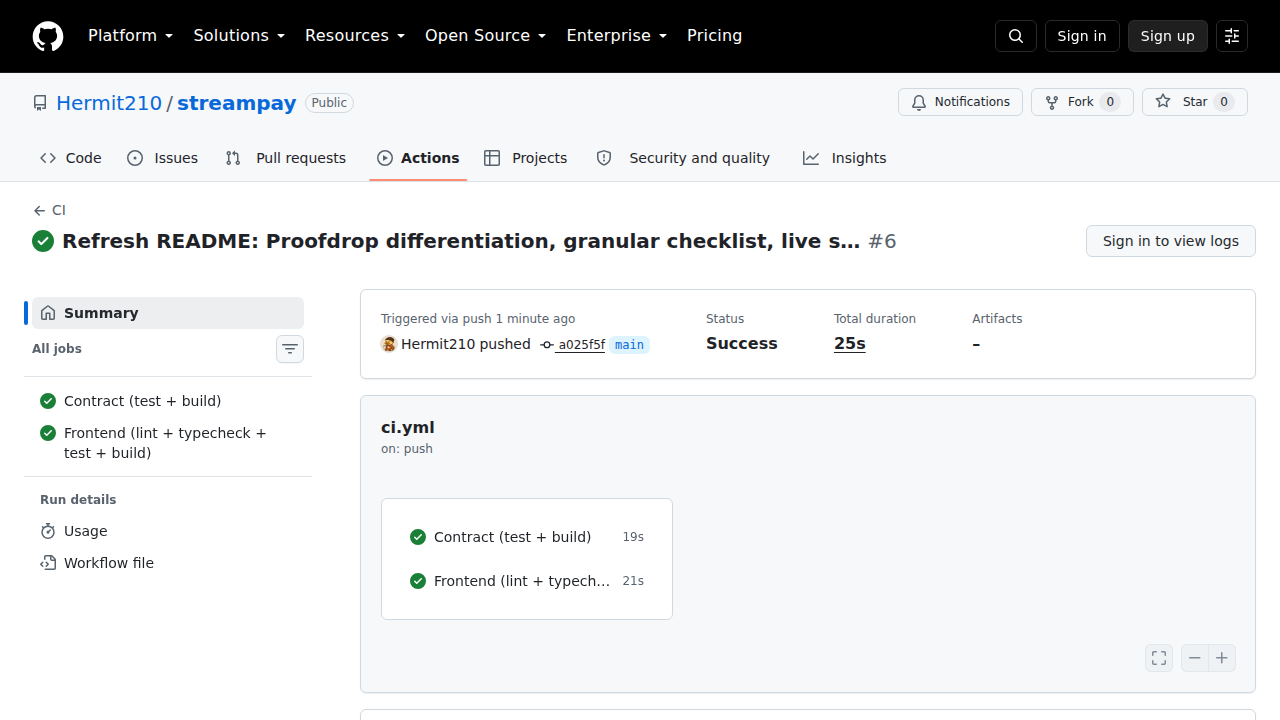
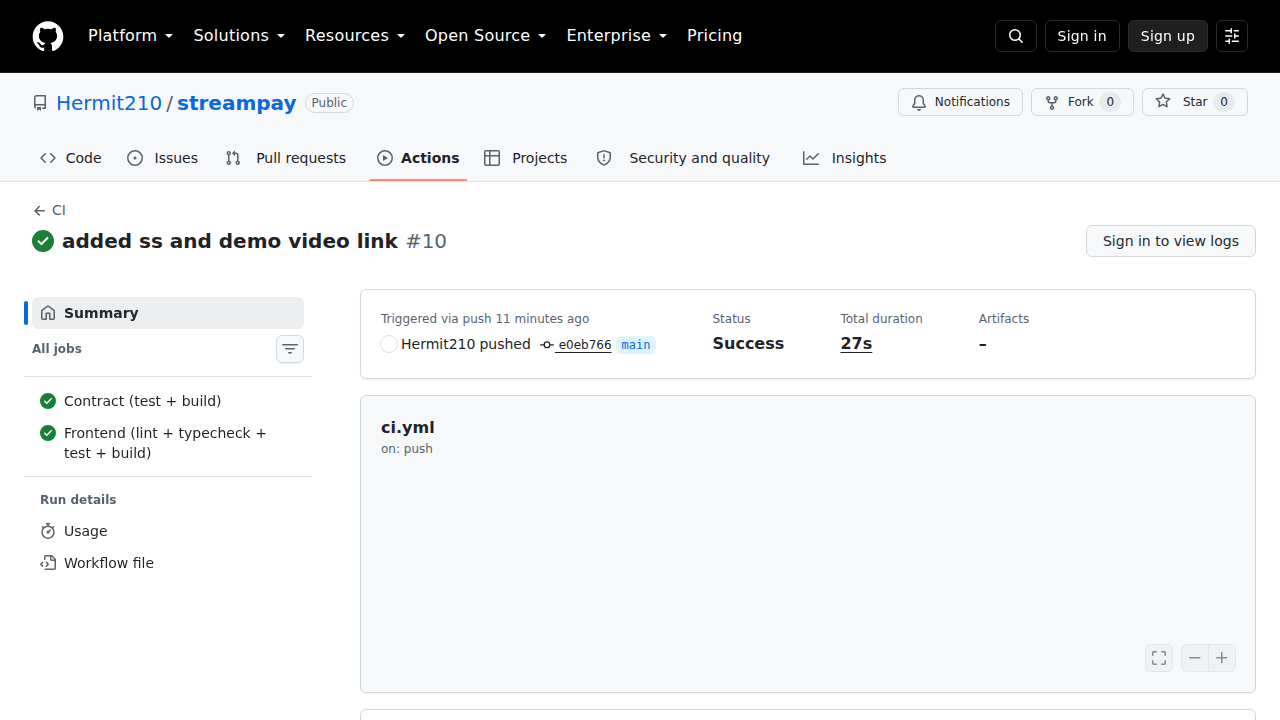
docs: restructure README with demo table, CI, and test output sections
Adds a Demo table near the top (real Vercel URL, real create/withdraw/
cancel testnet transactions, real contract explorer link, real demo video
link -- all pulled from contract/deployment/testnet.md and the live-app
check, none invented) plus dedicated CI/CD pipeline and Test output
sections with the exact commands, a link to a real passing Actions run,
and genuine pasted terminal output from running both suites just now (9
contract tests, 54 frontend tests across 10 files).

Also re-verifies and fixes staleness found while restructuring: the
requirements checklist's demo video and live-demo-link rows were still
marked pending even though both are real now; the frontend test count was
stale at 47 (two new test files landed since); and the old CI/test-output
screenshots in the Screenshots section were superseded by the new
dedicated sections, so removed the duplication rather than showing the
same evidence twice. CI and test-output screenshots regenerated to match
current counts and the current passing run.

Nothing in this commit is fabricated: the live app URL, video link, and
mobile screenshots were added by the user directly via GitHub in a prior
commit (e0eb766) that this work builds on top of, not invented here.

diff --git a/README.md b/README.md
@@ -8,6 +8,7 @@ Real-time streaming payments on Stellar Soroban — Orange Belt (Level 3) of
 ## Contents
 
 - [What this is](#what-this-is)
+- [Demo](#demo)
 - [How this compares to earlier belts](#how-this-compares-to-earlier-belts)
 - [Where this fits (use cases)](#where-this-fits-use-cases)
 - [System architecture](#system-architecture)
@@ -16,6 +17,8 @@ Real-time streaming payments on Stellar Soroban — Orange Belt (Level 3) of
 - [Contract](#contract)
 - [Frontend](#frontend)
 - [Setup](#setup)
+- [CI/CD pipeline](#cicd-pipeline)
+- [Test output](#test-output)
 - [Testnet deployment](#testnet-deployment)
 - [Screenshots](#screenshots)
 - [Requirements checklist](#requirements-checklist)
@@ -47,6 +50,22 @@ computed identically on-chain and in the UI, growing every single second
 rather than jumping in discrete steps. That's why cancellation is trivial
 here (split by elapsed time, no dispute possible) where it would require
 a judgment call in an escrow/approval model.
+
+## Demo
+
+| Resource | Link |
+|---|---|
+| **Live app** | https://streampay-mu.vercel.app/ |
+| **Create-stream tx** (Stream #0, 10 XLM / 60s) | [`6eb7f266…`](https://stellar.expert/explorer/testnet/tx/6eb7f2668b4c7c7e7013ac7924db72d3ba92f093d377ca650ab22a4649f0fbb3) |
+| **Withdraw tx** (Stream #0, 5 XLM) | [`c1401089…`](https://stellar.expert/explorer/testnet/tx/c1401089933bd652a65d6b8915f8db4c88928a99f0a6cfa9e2866e2b0b998a15) |
+| **Cancel tx** (Stream #4, 20 XLM, split exactly at ~9.5% accrued) | [`3df09bef…`](https://stellar.expert/explorer/testnet/tx/3df09befea0d46744be77384a3c3a898af87ffec8f291340b3125407d3af0180) |
+| **Contract** | [`CDPD3ZKG…`](https://stellar.expert/explorer/testnet/contract/CDPD3ZKG2CASLYS4GAZII6DLQG5R62QEE2JKJO7IWLKOWNDZA6J3WPVL) |
+| **Demo video** | https://drive.google.com/drive/folders/1JRUN0sEFhOgkP0gsB7Lz04rHJqllNYVv?usp=sharing |
+
+All four transactions are real, confirmed testnet transactions from the
+end-to-end runs documented in
+[`contract/deployment/testnet.md`](contract/deployment/testnet.md) — none
+are illustrative or hypothetical.
 
 ## How this compares to earlier belts
 
@@ -339,6 +358,72 @@ Runs `cargo test`, builds the optimized wasm, funds the deployer identity
 via Friendbot if needed, deploys, and prints the contract ID plus the
 exact `.env` line to point the frontend at it.
 
+## CI/CD pipeline
+
+[`.github/workflows/ci.yml`](.github/workflows/ci.yml) runs on every push
+and every pull request to `main`, as two independent jobs:
+
+- **Contract** (`contract/`): installs Rust with the `wasm32v1-none`
+  target (the actual target this project deploys with, not the more
+  common `wasm32-unknown-unknown`), caches the cargo registry and build
+  artifacts via `Swatinem/rust-cache`, runs `cargo test`, then
+  `cargo build --release --target wasm32v1-none -p stream_pay`.
+- **Frontend** (`frontend/`): installs Node 22, runs `npm ci`, then in
+  order `npm run lint` (oxlint), `npm run typecheck` (`tsc -b`),
+  `npm test` (vitest), and `npm run build` (vite) — the same six required
+  `VITE_*` env vars from [Setup](#setup) are injected for the test and
+  build steps, since the contract client reads them at import time.
+
+Real passing run (both jobs green, triggered by the commit that added the
+live demo link and screenshots):
+https://github.com/Hermit210/streampay/actions/runs/32134699175
+
+<img src="docs/screenshots/ci-green.png" alt="StreamPay CI run, both jobs green, run #10" width="720" />
+
+## Test output
+
+```bash
+cd contract && cargo test
+cd frontend && npm run test
+```
+
+Actual output from running both suites just now, pasted verbatim (not
+hand-written or hypothetical):
+
+```
+$ cd contract && cargo test
+running 9 tests
+test test::zero_duration_is_rejected ... ok
+test test::stranger_cannot_cancel ... ok
+test test::cancel_splits_accrued_and_refund_correctly ... ok
+test test::withdraw_full_deposit_after_stream_completes ... ok
+test test::recipient_can_also_cancel ... ok
+test test::create_stream_pulls_deposit_into_contract ... ok
+test test::withdraw_pays_only_accrued_amount ... ok
+test test::non_recipient_cannot_withdraw ... ok
+test test::get_recent_streams_orders_most_recent_first ... ok
+
+test result: ok. 9 passed; 0 failed; 0 ignored; 0 measured; 0 filtered out; finished in 0.06s
+
+$ cd frontend && npm run test
+ ✓ src/services/stellar/errors.test.ts (5 tests) 8ms
+ ✓ src/features/streams/accrual.test.ts (11 tests) 10ms
+ ✓ src/services/stellar/amount.test.ts (4 tests) 10ms
+ ✓ src/services/stellar/config.test.ts (8 tests) 9ms
+ ✓ src/services/stellar/freighter.test.ts (3 tests) 12ms
+ ✓ src/features/wallet/useWallet.test.ts (5 tests) 144ms
+ ✓ src/features/streams/validation.test.ts (8 tests) 10ms
+ ✓ src/components/ui/AnimatedNumber.test.tsx (4 tests) 87ms
+ ✓ src/features/streams/StreamView.test.tsx (3 tests) 438ms
+ ✓ src/features/streams/CreateStreamForm.test.tsx (3 tests) 565ms
+
+ Test Files  10 passed (10)
+      Tests  54 passed (54)
+   Duration  13.34s
+```
+
+<img src="docs/screenshots/test-output.png" alt="9 contract tests and 54 frontend tests passing" width="640" />
+
 ## Testnet deployment
 
 | | |
@@ -355,9 +440,7 @@ exact `.env` line to point the frontend at it.
 Full end-to-end transcript (create → accrue → withdraw → cancel, with the
 exact numbers): [`contract/deployment/testnet.md`](contract/deployment/testnet.md).
 
-**Live demo:** https://streampay-mu.vercel.app/
-
-**Demo video:** https://drive.google.com/drive/folders/1JRUN0sEFhOgkP0gsB7Lz04rHJqllNYVv?usp=sharing
+See [Demo](#demo) above for the live app and demo video links.
 
 ## Screenshots
 
@@ -386,15 +469,8 @@ testnet data, real routing) — none are mockups.
 
 <img src="docs/screenshots/app-desktop-live-stream.png" alt="StreamPay app page with a live loaded stream" width="720" />
 
-### CI pipeline, both jobs green
-
-Live at [Actions](https://github.com/Hermit210/streampay/actions), also via the badge at the top of this README:
-
-<img src="docs/screenshots/ci-green.png" alt="StreamPay CI run, both jobs green" width="720" />
-
-### Test output (9 contract tests + 47 frontend tests, all real captured output)
-
-<img src="docs/screenshots/test-output.png" alt="9 contract tests and 47 frontend tests passing" width="640" />
+CI pipeline and test output screenshots moved to their own sections —
+see [CI/CD pipeline](#cicd-pipeline) and [Test output](#test-output).
 
 ## Requirements checklist
 
@@ -410,9 +486,9 @@ assumed from earlier work.
 | Mobile responsive frontend | ✅ | All three routes (`/`, `/how-it-works`, `/app`) verified at 390px with real headless-browser captures, zero horizontal overflow — see [Screenshots](#screenshots) |
 | Error handling & loading states | ✅ | Every RPC/contract call (wallet connect, create, withdraw, cancel, stream load, event poll) has a loading state and a mapped, human-readable error message; a root `ErrorBoundary` for uncaught render errors; and a pre-mount startup check that shows a clear on-screen error naming exactly which env vars are missing, instead of a blank page, if the deployment is misconfigured |
 | Contract tests | ✅ | 9 unit tests (Rust/soroban-sdk testutils): create, partial/full withdraw, double-withdraw rejection, cancel by sender and by recipient, stranger-cannot-cancel, non-recipient-cannot-withdraw, zero-duration rejection, recent-streams ordering |
-| Frontend tests | ✅ | 47 tests (Vitest/RTL): accrual math (11, including before/mid/exactly-at-stop/after-stop/canceled), wallet connect errors (5), form validation (8), withdraw guard logic (3), animated number (4), error mapping (5), amount conversion (4), component-level create-stream flow (3), startup env-var check (4) |
+| Frontend tests | ✅ | 54 tests across 10 files (Vitest/RTL): accrual math (11, including before/mid/exactly-at-stop/after-stop/canceled), wallet connect errors (5), form validation (8), withdraw guard logic (3), animated number (4), error mapping (5), amount conversion (4), component-level create-stream flow (3), startup env-var check (8), Freighter network-passphrase whitespace regression (3) |
 | Production-ready architecture | ✅ | `services/` (RPC, wallet, events) / `features/` (streams, wallet, home) / `components/ui/` (shared primitives) / `pages/` separation, thin composition roots — not one giant `App.tsx` |
 | Documentation | ✅ | This README: architecture, setup, testing, deployment record, honest checklist |
-| Demo video | 🟡 | Pending recording |
-| Live demo link (Vercel) | ⬜ | Pending deploy |
-| Transaction hash for a contract interaction | ✅ | create_stream, withdraw, and cancel all have real confirmed testnet transactions — see [Testnet deployment](#testnet-deployment) |
+| Demo video | ✅ | See [Demo](#demo) |
+| Live demo link (Vercel) | ✅ | https://streampay-mu.vercel.app/ — live, see [Demo](#demo) |
+| Transaction hash for a contract interaction | ✅ | create_stream, withdraw, and cancel all have real confirmed testnet transactions — see [Demo](#demo) and [Testnet deployment](#testnet-deployment) |
